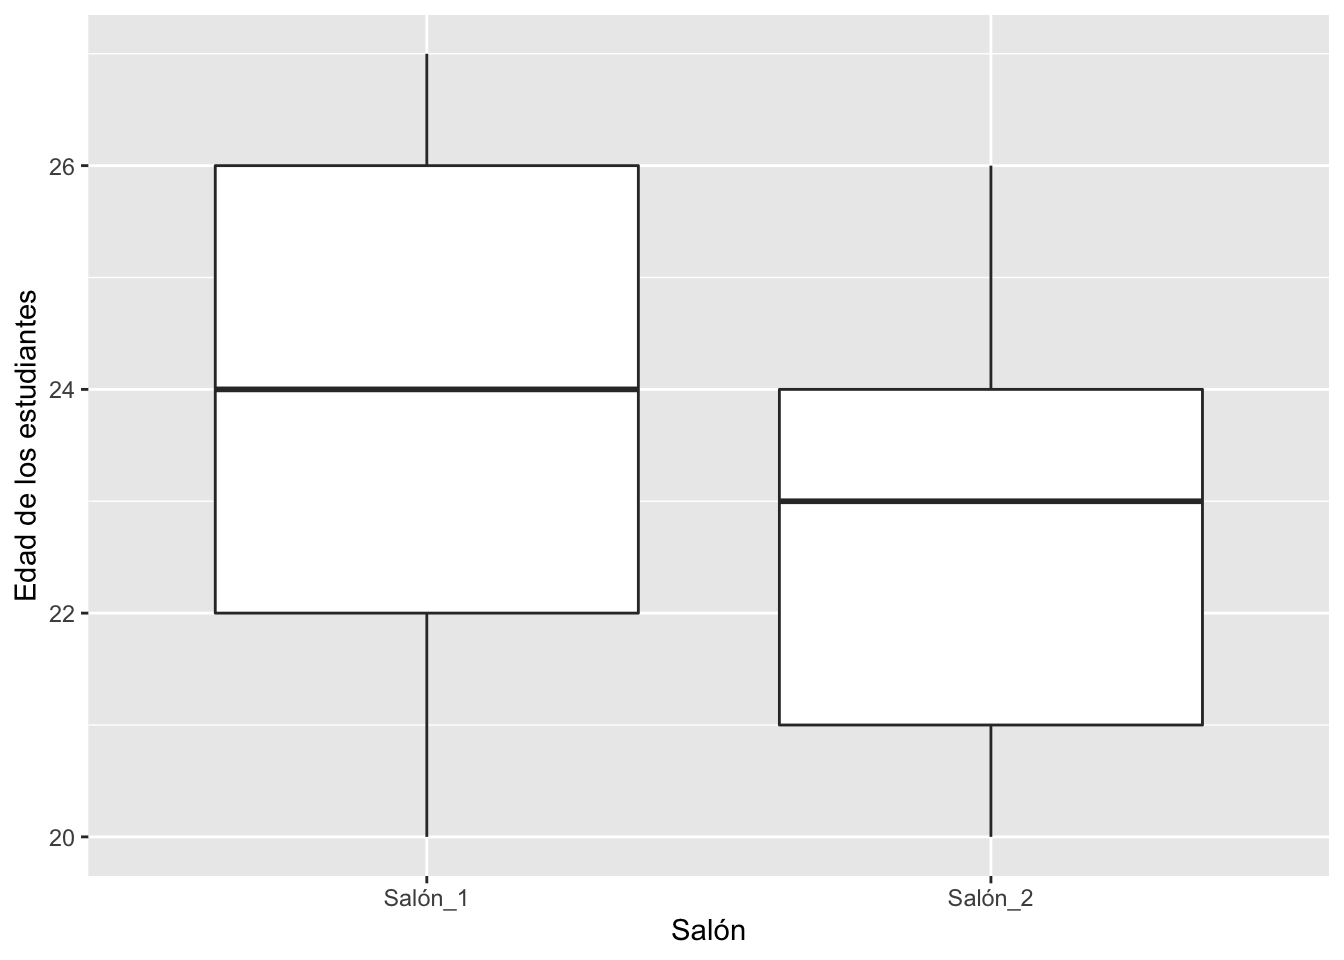
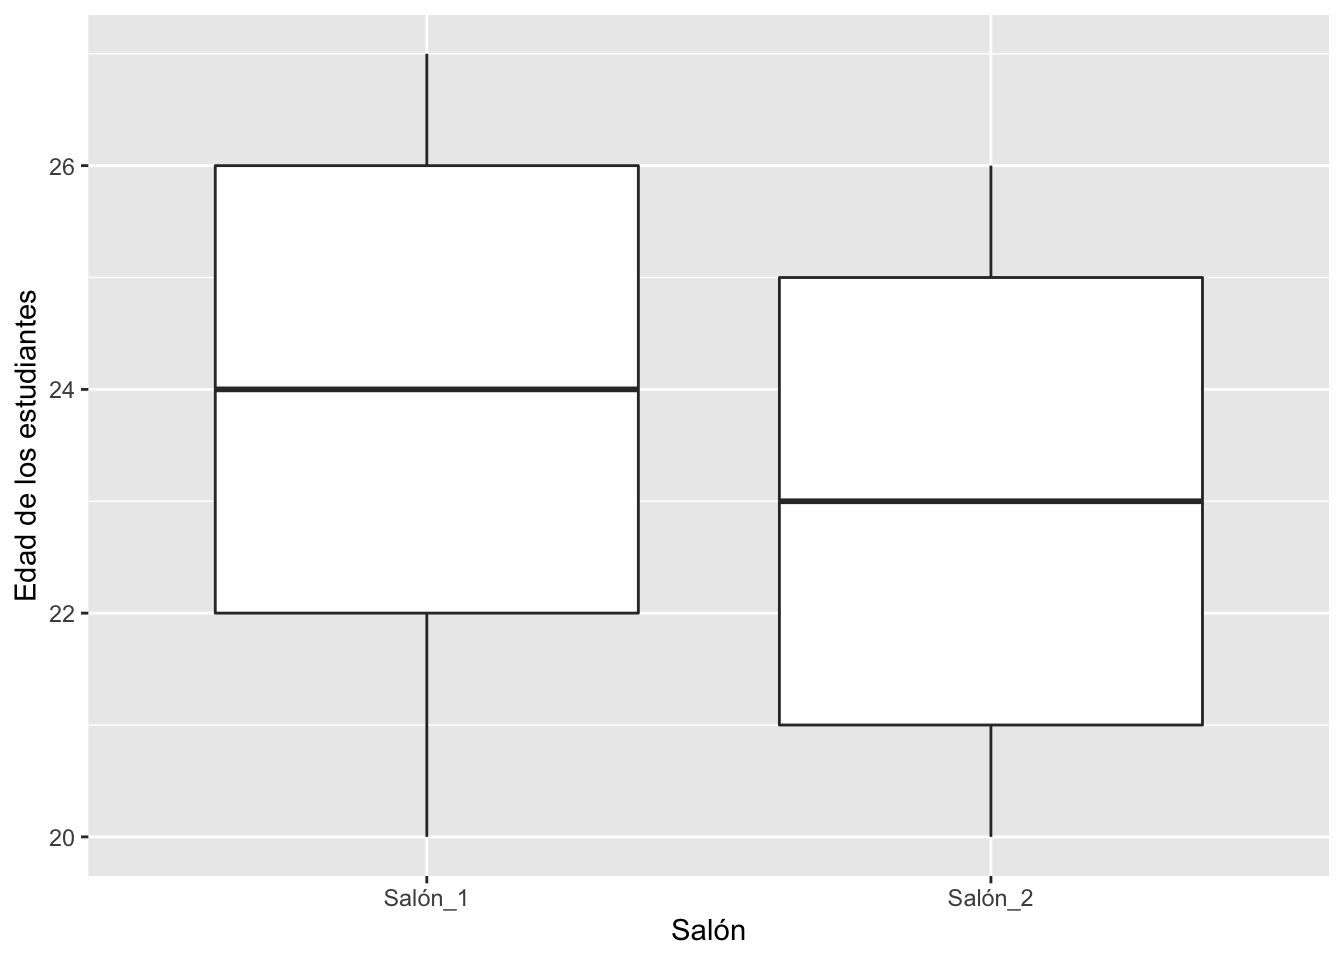
primer Eje

Changed region(s): [[0.5625, 0.2812, 0.9062, 0.4062]]

diff --git a/Primer-ejercicio.html b/Primer-ejercicio.html
@@ -355,7 +355,7 @@ $(document).ready(function () {
       <a href="Introduccion-RMarkdown.html">Lo básico de RMarkdown</a>
     </li>
     <li>
-      <a href="Primer-ejercicio.html">Primer Ejercicios</a>
+      <a href="Primer-ejercicio.html">Primer Ejercicio</a>
     </li>
   </ul>
 </li>
@@ -392,13 +392,13 @@ $(document).ready(function () {
 </div>
 
 
-<div id="first-assignment" class="section level1">
-<h1>First Assignment</h1>
+<div id="primer-asignación" class="section level1">
+<h1>Primer asignación</h1>
 <div id="este-ejercicio-es-de-practica.-no-se-evaluará-el-trabajo." class="section level3">
-<h3>Este ejercicio es de practica. NO se evaluará el trabajo.</h3>
-<p>Se suguiere que Ud trata de cumplir con todos los pasos abajo. El objetivo es de practicar las alternativas disponible en R, RSTUDIO y crear un documento .html.</p>
-<p>Es importante que Ud trata de hacer un documento profesional. Esto tomara tiempo ap[render y reconocer las diferentes funciones diponioble en RStudio y RMarkdown!!!</p>
-<p>Mi sugerencia es que trata de construir el dcomento y despues habla con colegas para comparar como lo logró y resolver problemas.</p>
+<h3>Este ejercicio es de practica. No se evaluará el trabajo.</h3>
+<p>Se sugiere que Ud trata de cumplir con todos los pasos abajo. El objetivo es de practicar las alternativas disponible en R, RSTUDIO y crear un documento .html.</p>
+<p>Es importante que Ud trata de hacer un documento profesional. Esto tomara tiempo aprender y reconocer las diferentes funciones disponible en RStudio y RMarkdown!!!</p>
+<p>Mi sugerencia es que trata de construir el documento y después habla con colegas para comparar como lo logró y resolver problemas.</p>
 </div>
 </div>
 <div id="parte-1" class="section level1">
@@ -458,7 +458,22 @@ $(document).ready(function () {
 </tr>
 </tbody>
 </table>
-<p>Your Name - <em>in bold</em> (enegrecido) Your Affiliation - <strong>in italics</strong> Your Contact - email 1. Import the file 2. Show the link to the file in the chunk 3. View the data 4. Using the appropriate function show who was the person born first in your list head(df, n=1) 5. Show the last 3 line of your data frame 6. Calculate the mean life span of all your decease descendantss 7. Load a picture of your favorite grandparent and explain why this person had an impact or you found most interesting. 8. Make a numbered list of the class you enjoy the most to least. 9. Include in your presentation the formula how to calculate the mean and the variance of a sample, using Latex formula.</p>
+<ul>
+<li><p>Your Name - <em>in bold</em> (enegrecido)</p></li>
+<li><p>Your Affiliation - <strong>in italics</strong></p></li>
+<li><p>Your Contact - email</p>
+<ol style="list-style-type: decimal">
+<li>Import the file</li>
+<li>Show the link to the file in the chunk</li>
+<li>View the data</li>
+<li>Using the appropriate function show who was the person born first in your list head(df, n=1)</li>
+<li>Show the last 3 line of your data frame</li>
+<li>Calculate the mean life span of all your decease descendantss</li>
+<li>Load a picture of your favorite grandparent and explain why this person had an impact or you found most interesting.</li>
+<li>Make a numbered list of the class you enjoy the most to least.</li>
+<li>Include in your presentation the formula how to calculate the mean and the variance of a sample, using Latex formula.</li>
+</ol></li>
+</ul>
 </div>
 </div>
 

diff --git a/G1-ggplot2.html b/G1-ggplot2.html
@@ -430,6 +430,9 @@ div.tocify {
     <li>
       <a href="Introduccion-RMarkdown.html">Lo básico de RMarkdown</a>
     </li>
+    <li>
+      <a href="Primer-ejercicio.html">Primer Ejercicio</a>
+    </li>
   </ul>
 </li>
 <li class="dropdown">
@@ -474,17 +477,17 @@ div.tocify {
 <p>Veamos un ejemplo. Si uno lista las edades de estudiantes universitarios de dos salones, tendremos el reto de intentar discernir si sus edades son aproximadamente iguales o diferentes solo al mirar la lista. ¿Será posible? A ver, intenta explicar cuál es la diferencia (si existe alguna) en las edades de las dos listas siguientes.</p>
 <p>Edades del salón 1:</p>
 <pre><code>## $V1
-##   [1] 27 20 23 23 23 21 24 20 23 22 26 20 27 25 25 21 27 25 22 23 21 26 26 25 27
-##  [26] 21 25 26 20 24 21 26 23 24 27 23 26 26 25 25 24 21 25 27 23 27 20 25 21 26
-##  [51] 21 22 22 22 21 24 26 26 26 24 20 27 24 24 23 26 24 27 22 25 23 26 20 20 27
-##  [76] 26 20 24 23 21 27 27 21 23 22 23 21 24 22 21 27 24 20 23 24 22 25 23 27 26</code></pre>
+##   [1] 27 27 25 26 21 27 25 22 20 21 22 24 25 26 21 20 20 25 26 27 27 25 26 21 20
+##  [26] 26 25 22 26 22 27 21 24 23 25 24 24 22 24 21 25 25 27 25 25 24 25 22 26 24
+##  [51] 26 26 26 27 26 23 26 20 21 22 21 20 21 24 22 25 21 21 25 23 27 25 24 27 20
+##  [76] 23 27 20 23 25 22 21 24 23 26 24 24 25 22 27 21 20 27 23 26 25 22 22 20 27</code></pre>
 <hr />
 <p>Edades del salón 2:</p>
 <pre><code>## $V1
-##   [1] 24 23 23 24 23 22 21 25 20 24 22 24 23 22 24 24 24 24 24 26 26 20 23 26 23
-##  [26] 25 22 20 23 21 21 24 24 23 21 24 20 23 26 24 23 25 22 26 20 20 26 21 25 20
-##  [51] 26 23 22 24 25 22 23 24 21 26 21 20 21 26 24 24 22 20 21 26 22 22 24 26 23
-##  [76] 23 21 22 20 24 21 25 21 21 20 22 24 25 23 20 23 22 20 20 22 23 26 21 25 23</code></pre>
+##   [1] 23 22 23 22 20 20 23 23 22 26 20 23 20 22 23 26 26 20 24 21 21 22 24 20 20
+##  [26] 23 22 22 21 26 24 26 26 21 24 24 24 21 26 20 20 25 26 22 24 20 24 21 22 26
+##  [51] 26 26 21 23 26 25 26 24 25 26 23 26 20 24 20 26 21 21 25 22 21 23 21 23 26
+##  [76] 20 24 22 25 22 21 23 25 25 20 25 22 20 26 25 25 24 25 22 24 20 23 22 20 24</code></pre>
 <p>Probablemente notes que no es evidente a primera vista cuál es la diferencia entre las dos listas de datos. Necesitamos ayuda para visualizar la diferencia. A continuación se explican un par de maneras de ver esa misma información.</p>
 <hr />
 <div id="resumir-la-información-en-tablas" class="section level2">
@@ -857,13 +860,13 @@ df%&gt;%
   <tbody class="gt_table_body">
     <tr>
       <td class="gt_row gt_left">Salón_1</td>
-      <td class="gt_row gt_right">23.71</td>
+      <td class="gt_row gt_right">23.78</td>
       <td class="gt_row gt_center">20</td>
       <td class="gt_row gt_center">27</td>
     </tr>
     <tr>
       <td class="gt_row gt_left">Salón_2</td>
-      <td class="gt_row gt_right">22.88</td>
+      <td class="gt_row gt_right">23.00</td>
       <td class="gt_row gt_center">20</td>
       <td class="gt_row gt_center">26</td>
     </tr>

diff --git a/index.html b/index.html
@@ -429,6 +429,9 @@ div.tocify {
     <li>
       <a href="Introduccion-RMarkdown.html">Lo básico de RMarkdown</a>
     </li>
+    <li>
+      <a href="Primer-ejercicio.html">Primer Ejercicio</a>
+    </li>
   </ul>
 </li>
 <li class="dropdown">
